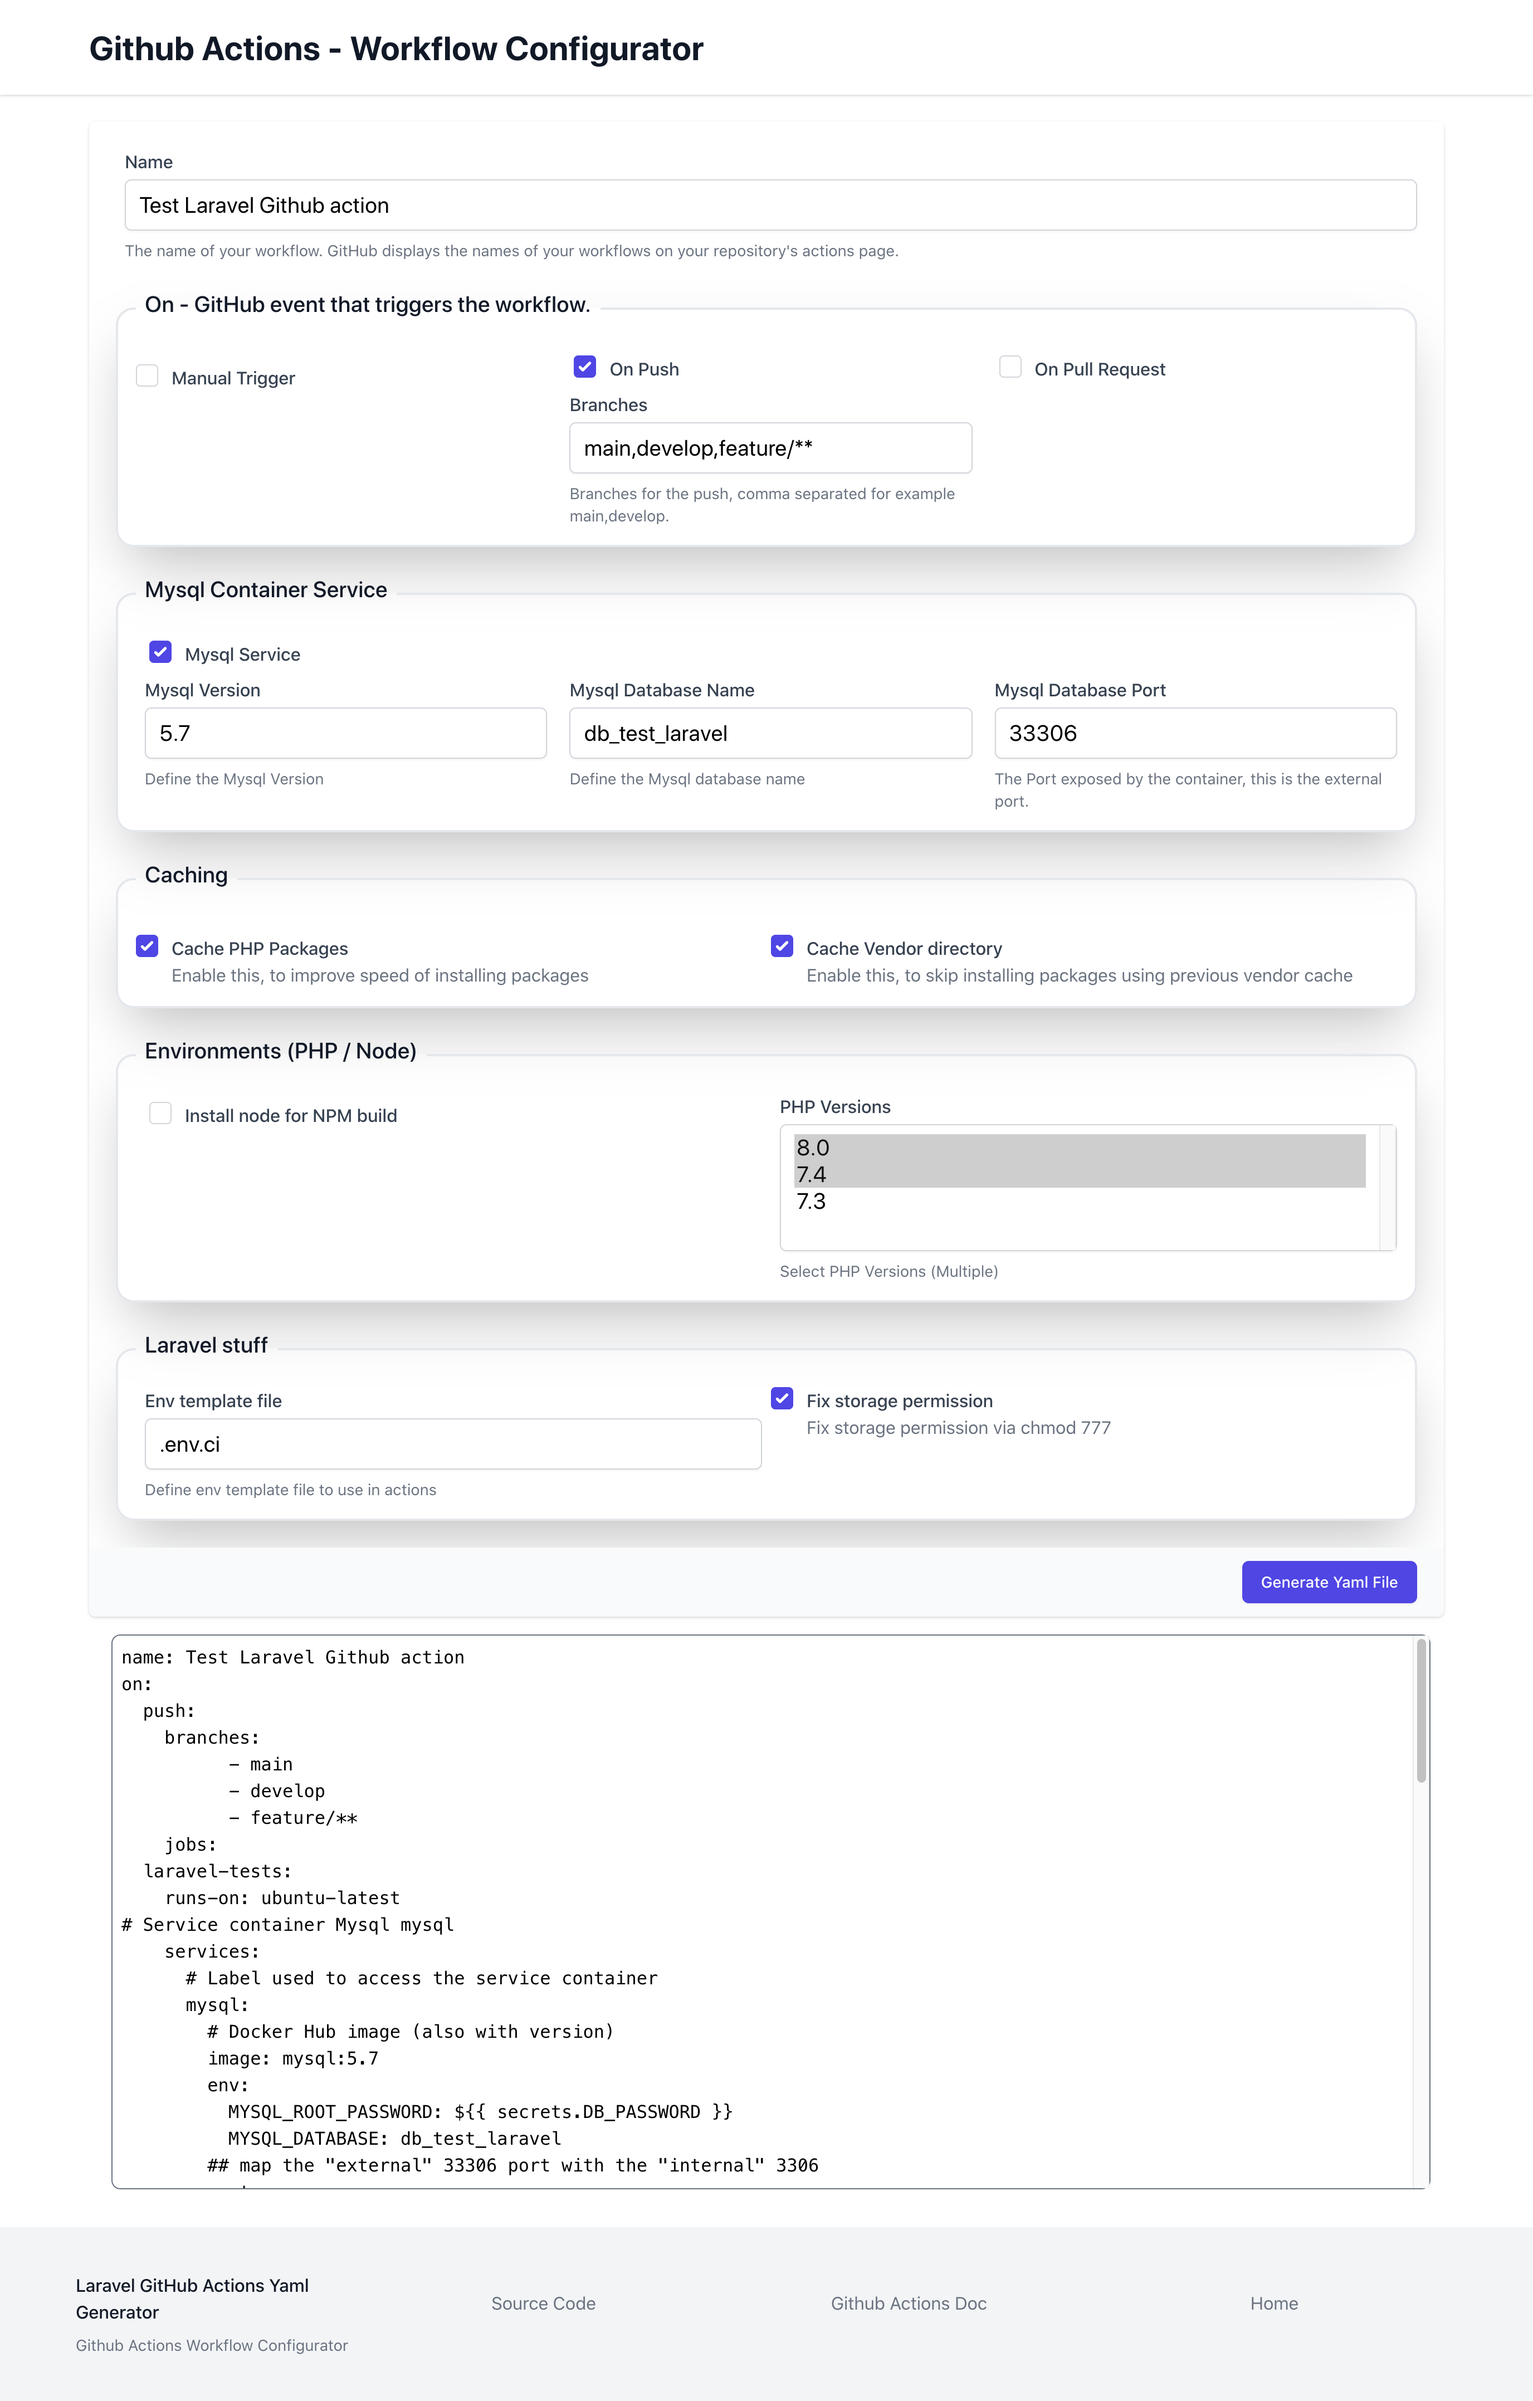
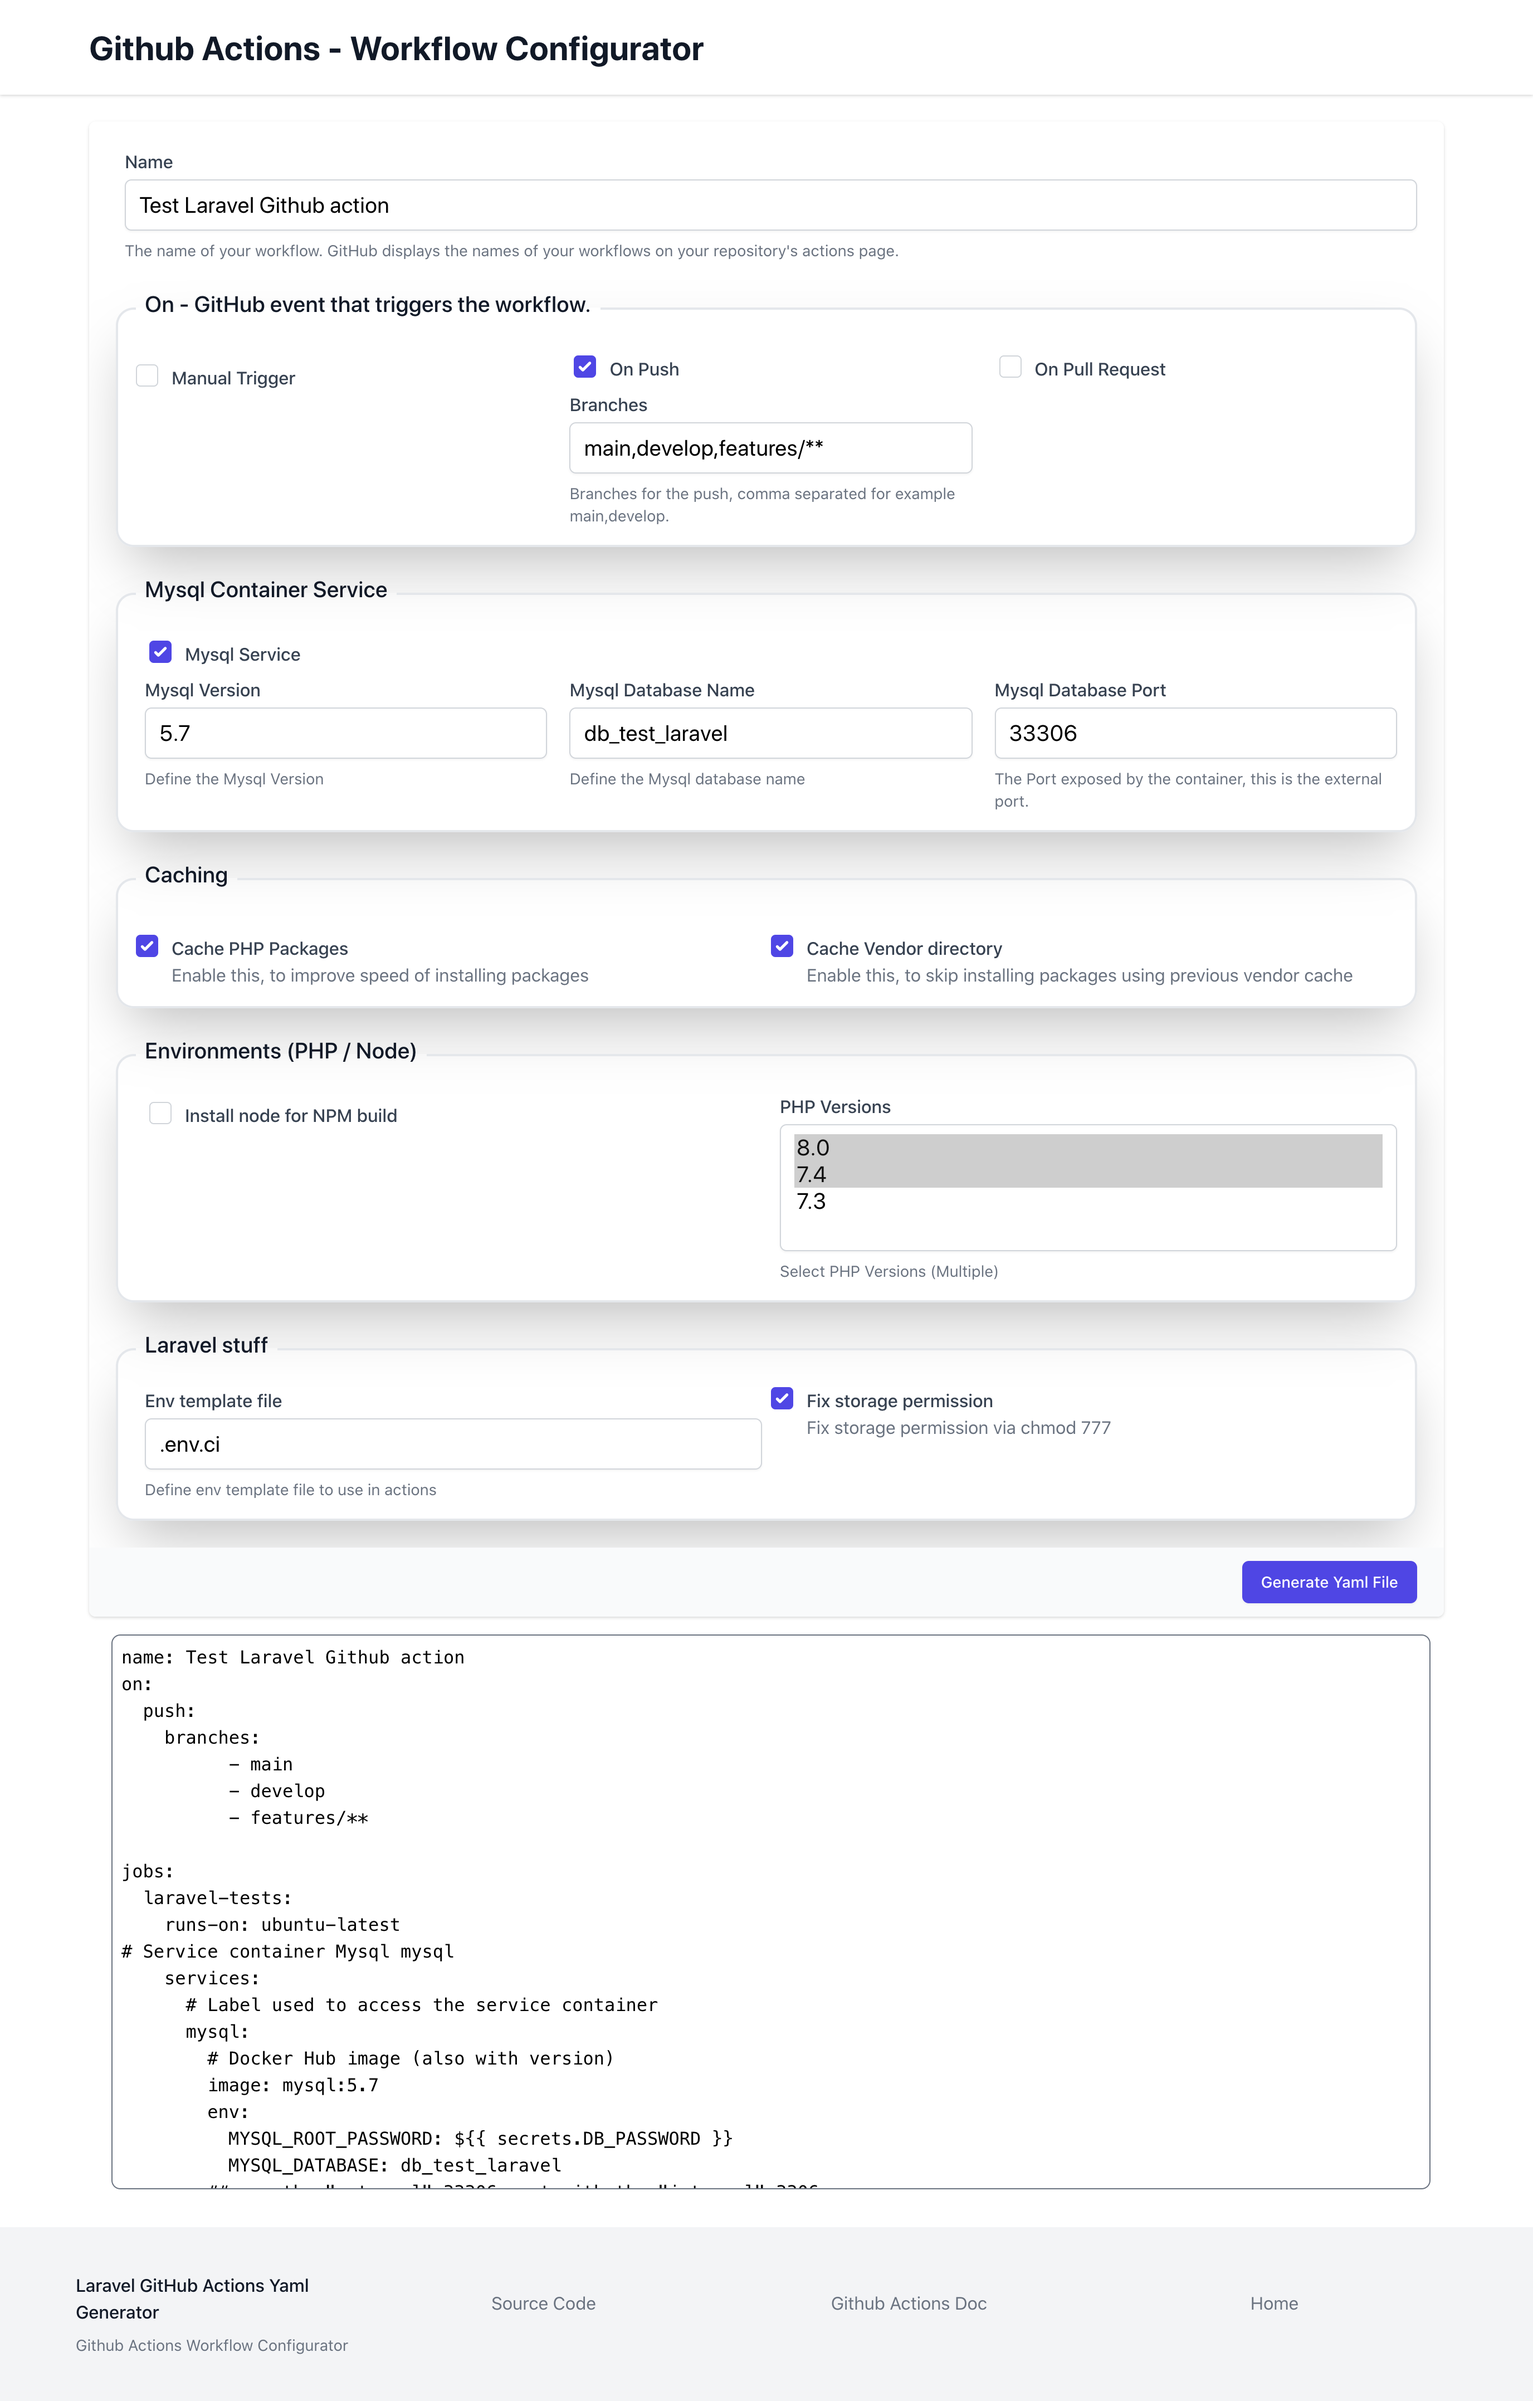
fine tuning

diff --git a/app/Http/Livewire/ConfiguratorForm.php b/app/Http/Livewire/ConfiguratorForm.php
@@ -40,7 +40,7 @@ class ConfiguratorForm extends Component
     {
         $this->name="Test Laravel Github action";
         $this->onPush = true;
-        $this->onPushBranches = ["main", "develop", "feature/**"];
+        $this->onPushBranches = ["main", "develop", "features/**"];
         $this->onPullrequest= false;
         $this->onPullrequestBranches = ["main", "develop"];
         $this->manualTrigger = false;
@@ -49,7 +49,7 @@ class ConfiguratorForm extends Component
         $this->mysqlVersion="5.7";
         $this->mysqlDatabaseName = "db_test_laravel";
         $this->mysqlDatabasePort = 33306;
-        $this->stepEnvTemplateFile= ".env.ci";
+        $this->stepEnvTemplateFile= ".env.example";
         $this->stepPhpVersions= ["8.0", "7.4"];
         $this->stepNodejs = false;
         $this->stepNodejsVersion ="12.x";

diff --git a/resources/views/action_yaml.blade.php b/resources/views/action_yaml.blade.php
@@ -1,9 +1,11 @@
 name: {{ $name }}
 @include('yaml.on')
+
 jobs:
   laravel-tests:
     runs-on: ubuntu-latest
 @include('yaml.mysql_service')
+
     strategy:
       matrix:
         operating-system: [ubuntu-latest]
